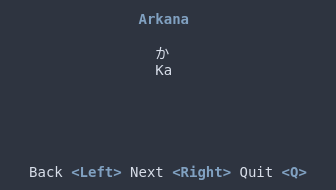
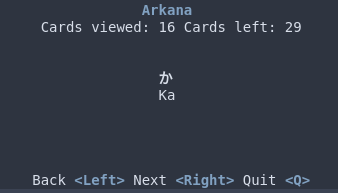
Styling updates

diff --git a/src/main.rs b/src/main.rs
@@ -7,14 +7,10 @@ use std::io::{self};
 use cards::{get_deck, Card};
 use crossterm::event::{self, Event, KeyCode, KeyEvent, KeyEventKind};
 use ratatui::{
-    layout::{Alignment, Constraint, Flex, Layout},
-    style::Stylize,
-    symbols::border,
-    text::{Line, Text},
-    widgets::{block::Title, Block, Paragraph, Widget},
+    layout::{Constraint, Flex, Layout},
     Frame,
 };
-use widgets::{render_card, render_controls, render_title};
+use widgets::{render_card, render_controls, render_counter, render_title};
 
 #[derive(Debug, Default)]
 pub struct ArkanaApp {
@@ -41,15 +37,19 @@ impl ArkanaApp {
     }
 
     fn render_frame(&self, frame: &mut Frame) {
-        let main_layout =
-            Layout::vertical([Constraint::Max(2), Constraint::Fill(0), Constraint::Max(2)])
-                .flex(Flex::SpaceBetween);
+        let main_layout = Layout::vertical([
+            Constraint::Max(1),
+            Constraint::Max(1),
+            Constraint::Min(2),
+            Constraint::Max(1),
+        ])
+        .flex(Flex::SpaceBetween);
 
-        let [header_area, body_area, footer_area] = main_layout.areas(frame.area());
+        let [header_area, counter_area, body_area, footer_area] = main_layout.areas(frame.area());
 
-        // frame.render_widget(self, header_area);
         render_title(frame, header_area);
-        // TODO: Center this one
+        render_counter(frame, counter_area, &self.card_counter, &self.cards.len());
+        // TODO: Vertically center this one
         render_card(frame, body_area, &self.current_card, self.show_back);
         render_controls(frame, footer_area);
     }
@@ -73,11 +73,14 @@ impl ArkanaApp {
         }
     }
 
-    fn increment_counter(&mut self) {
+    fn increment_counter(&mut self) -> () {
         if self.show_back {
             let card = self.cards.pop();
             match card {
-                Some(card) => self.current_card = card,
+                Some(card) => {
+                    self.current_card = card;
+                    self.card_counter += 1;
+                }
                 None => self.exit(),
             };
         }
@@ -90,28 +93,6 @@ impl ArkanaApp {
 
     fn exit(&mut self) {
         self.exit = true;
-    }
-}
-
-impl Widget for &ArkanaApp {
-    fn render(self, area: ratatui::prelude::Rect, buf: &mut ratatui::prelude::Buffer) {
-        //! Unused code: render in widgets.rs and remove here
-        let counter_block = Block::new().border_set(border::THICK);
-
-        let counter_text = Text::from(vec![Line::from(vec![
-            "Card number: ".into(),
-            self.card_counter.to_string().yellow(),
-            " In Deck: ".into(),
-            self.cards.len().to_string().into(),
-            " ".into(),
-            self.show_back.to_string().into(),
-        ])])
-        .alignment(Alignment::Center);
-
-        Paragraph::new(counter_text)
-            .centered()
-            .block(counter_block)
-            .render(area, buf);
     }
 }
 

diff --git a/src/widgets.rs b/src/widgets.rs
@@ -1,8 +1,8 @@
 // TODO: Move widgets here, functions to generate Widget object
 // TODO: https://ratatui.rs/examples/widgets/block/
 use ratatui::{
-    layout::{Alignment, Rect},
-    style::{Color, Modifier, Style},
+    layout::{Alignment, Constraint, Flex, Layout, Rect},
+    style::{Color, Modifier, Style, Stylize},
     text::{Line, Span, Text},
     widgets::{block::Title, Block, Paragraph},
     Frame,
@@ -20,21 +20,42 @@ pub fn render_title(frame: &mut Frame, area: Rect) {
     frame.render_widget(text.alignment(Alignment::Center), area);
 }
 
-pub fn render_counter(frame: &mut Frame, area: Rect) {
-    todo!()
+pub fn render_counter(frame: &mut Frame, area: Rect, card_counter: &usize, card_length: &usize) {
+    let cards_viewed = card_counter.to_string();
+    let cards_left = card_length.to_string();
+    let counter_text = Text::from(vec![Line::from(vec![
+        "Cards viewed: ".into(),
+        cards_viewed.as_str().into(),
+        " Cards left: ".into(),
+        cards_left.as_str().into(),
+    ])])
+    .alignment(Alignment::Center);
+    frame.render_widget(counter_text.alignment(Alignment::Center), area);
 }
 
 pub fn render_card(frame: &mut Frame, area: Rect, card: &Card, show_back: bool) {
+    let [centered_area] = Layout::horizontal([Constraint::Percentage(20)])
+        .flex(Flex::Center)
+        .areas(area);
+
+    let [centered_area] = Layout::vertical([Constraint::Percentage(50)])
+        .flex(Flex::Center)
+        .areas(centered_area);
+
     frame.render_widget(
         Text::from(vec![
-            Line::from(card.front.as_str()).alignment(Alignment::Center),
+            Line::from(vec![Span::styled(
+                card.front.as_str(),
+                Style::default().bold(),
+            )]),
             if show_back {
-                Line::from(card.back.as_str()).alignment(Alignment::Center)
+                Line::from(card.back.as_str())
             } else {
                 Line::from("")
             },
-        ]),
-        area,
+        ])
+        .centered(),
+        centered_area,
     )
 }
 
